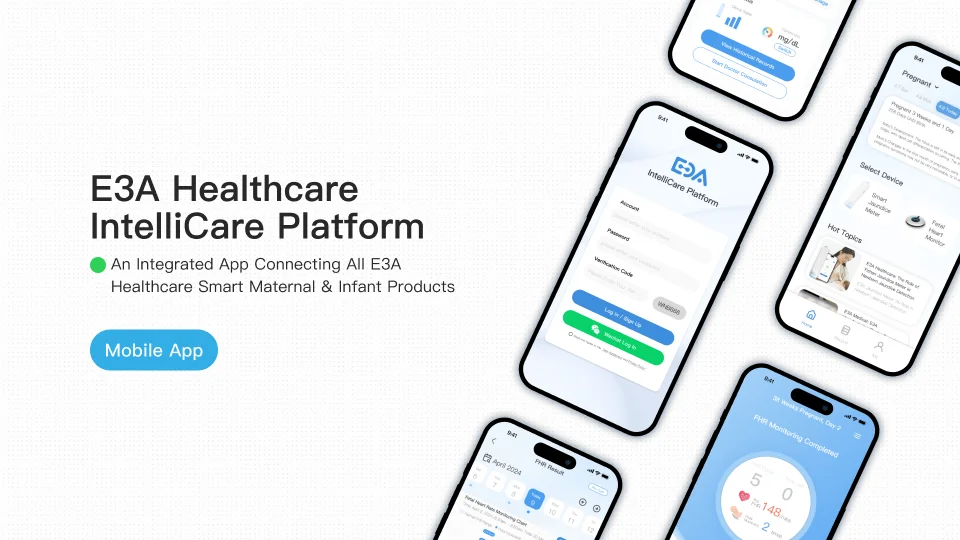
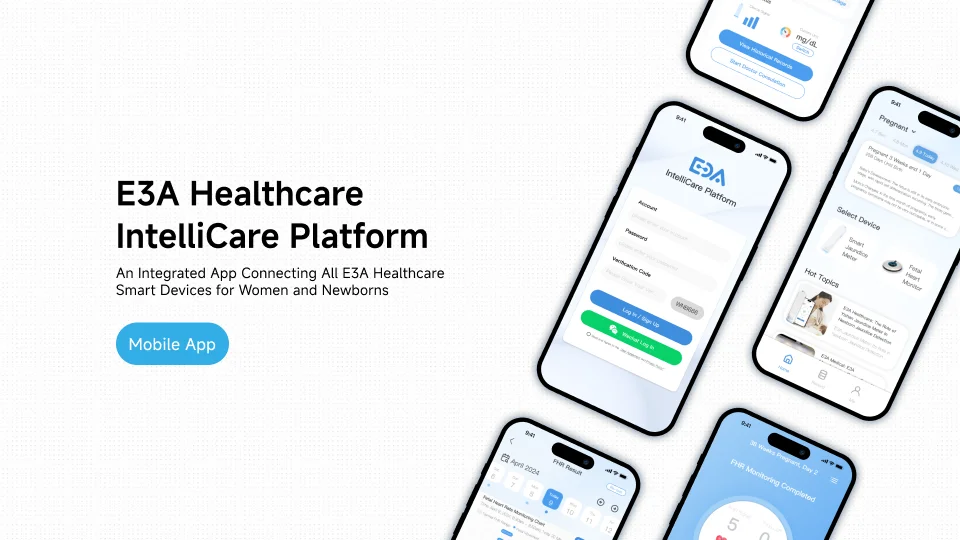
update

Changed region(s): [[0.4375, 0.0, 1.0, 1.0], [0.0938, 0.3259, 0.4688, 0.563], [0.0938, 0.5926, 0.25, 0.7111]]

diff --git a/doge/proj_en.html b/doge/proj_en.html
@@ -52,7 +52,7 @@
           <img src="/doge/proj/e3aintellicare/res/e3aintellicare_en.webp" alt="">
           <div class="overlay">
             <h1>E3A IntelliCare Platform</h1>
-            <h2>An Integrated App Connecting All E3A Healthcare Smart Maternal & Infant Products</h2>
+            <h2>An Integrated App Connecting All E3A Healthcare Smart Devices for Women and Newborns</h2>
             <a href="/pug/en.html?from=proj""><button>Read More</button></a>
           </div>
         </div>

diff --git a/index_en.html b/index_en.html
@@ -64,7 +64,7 @@
       <div class="portfolio-card">
         <div class="left-side">
           <h1>E3A IntelliCare Platform</h1>
-          <p>An Integrated App Connecting All E3A Healthcare Smart Maternal & Infant Products</p>
+          <p>An Integrated App Connecting All E3A Healthcare Smart Devices for Women and Newborns</p>
           <a href="/pug/en.html?from=home"><button class="details-button">Read More</button></a>
         </div>
         <div class="right-side">

diff --git a/doge/proj/e3aintellicare/en.html b/doge/proj/e3aintellicare/en.html
@@ -23,8 +23,8 @@
   <header>
     <div class="header-content">
       <div class="header-text">
-        <h1>亿杉智联平台</h1>
-        <h2>一款集成亿杉医疗智能母婴产品的互联手机应用</h2>
+        <h1>E3A IntelliCare Platform</h1>
+        <h2>An Integrated App Connecting All E3A Healthcare Smart Devices for Women and Newborns</h2>
         <div class="title-box">#Mobile App</div>
       </div>
       <div class="header-image">
